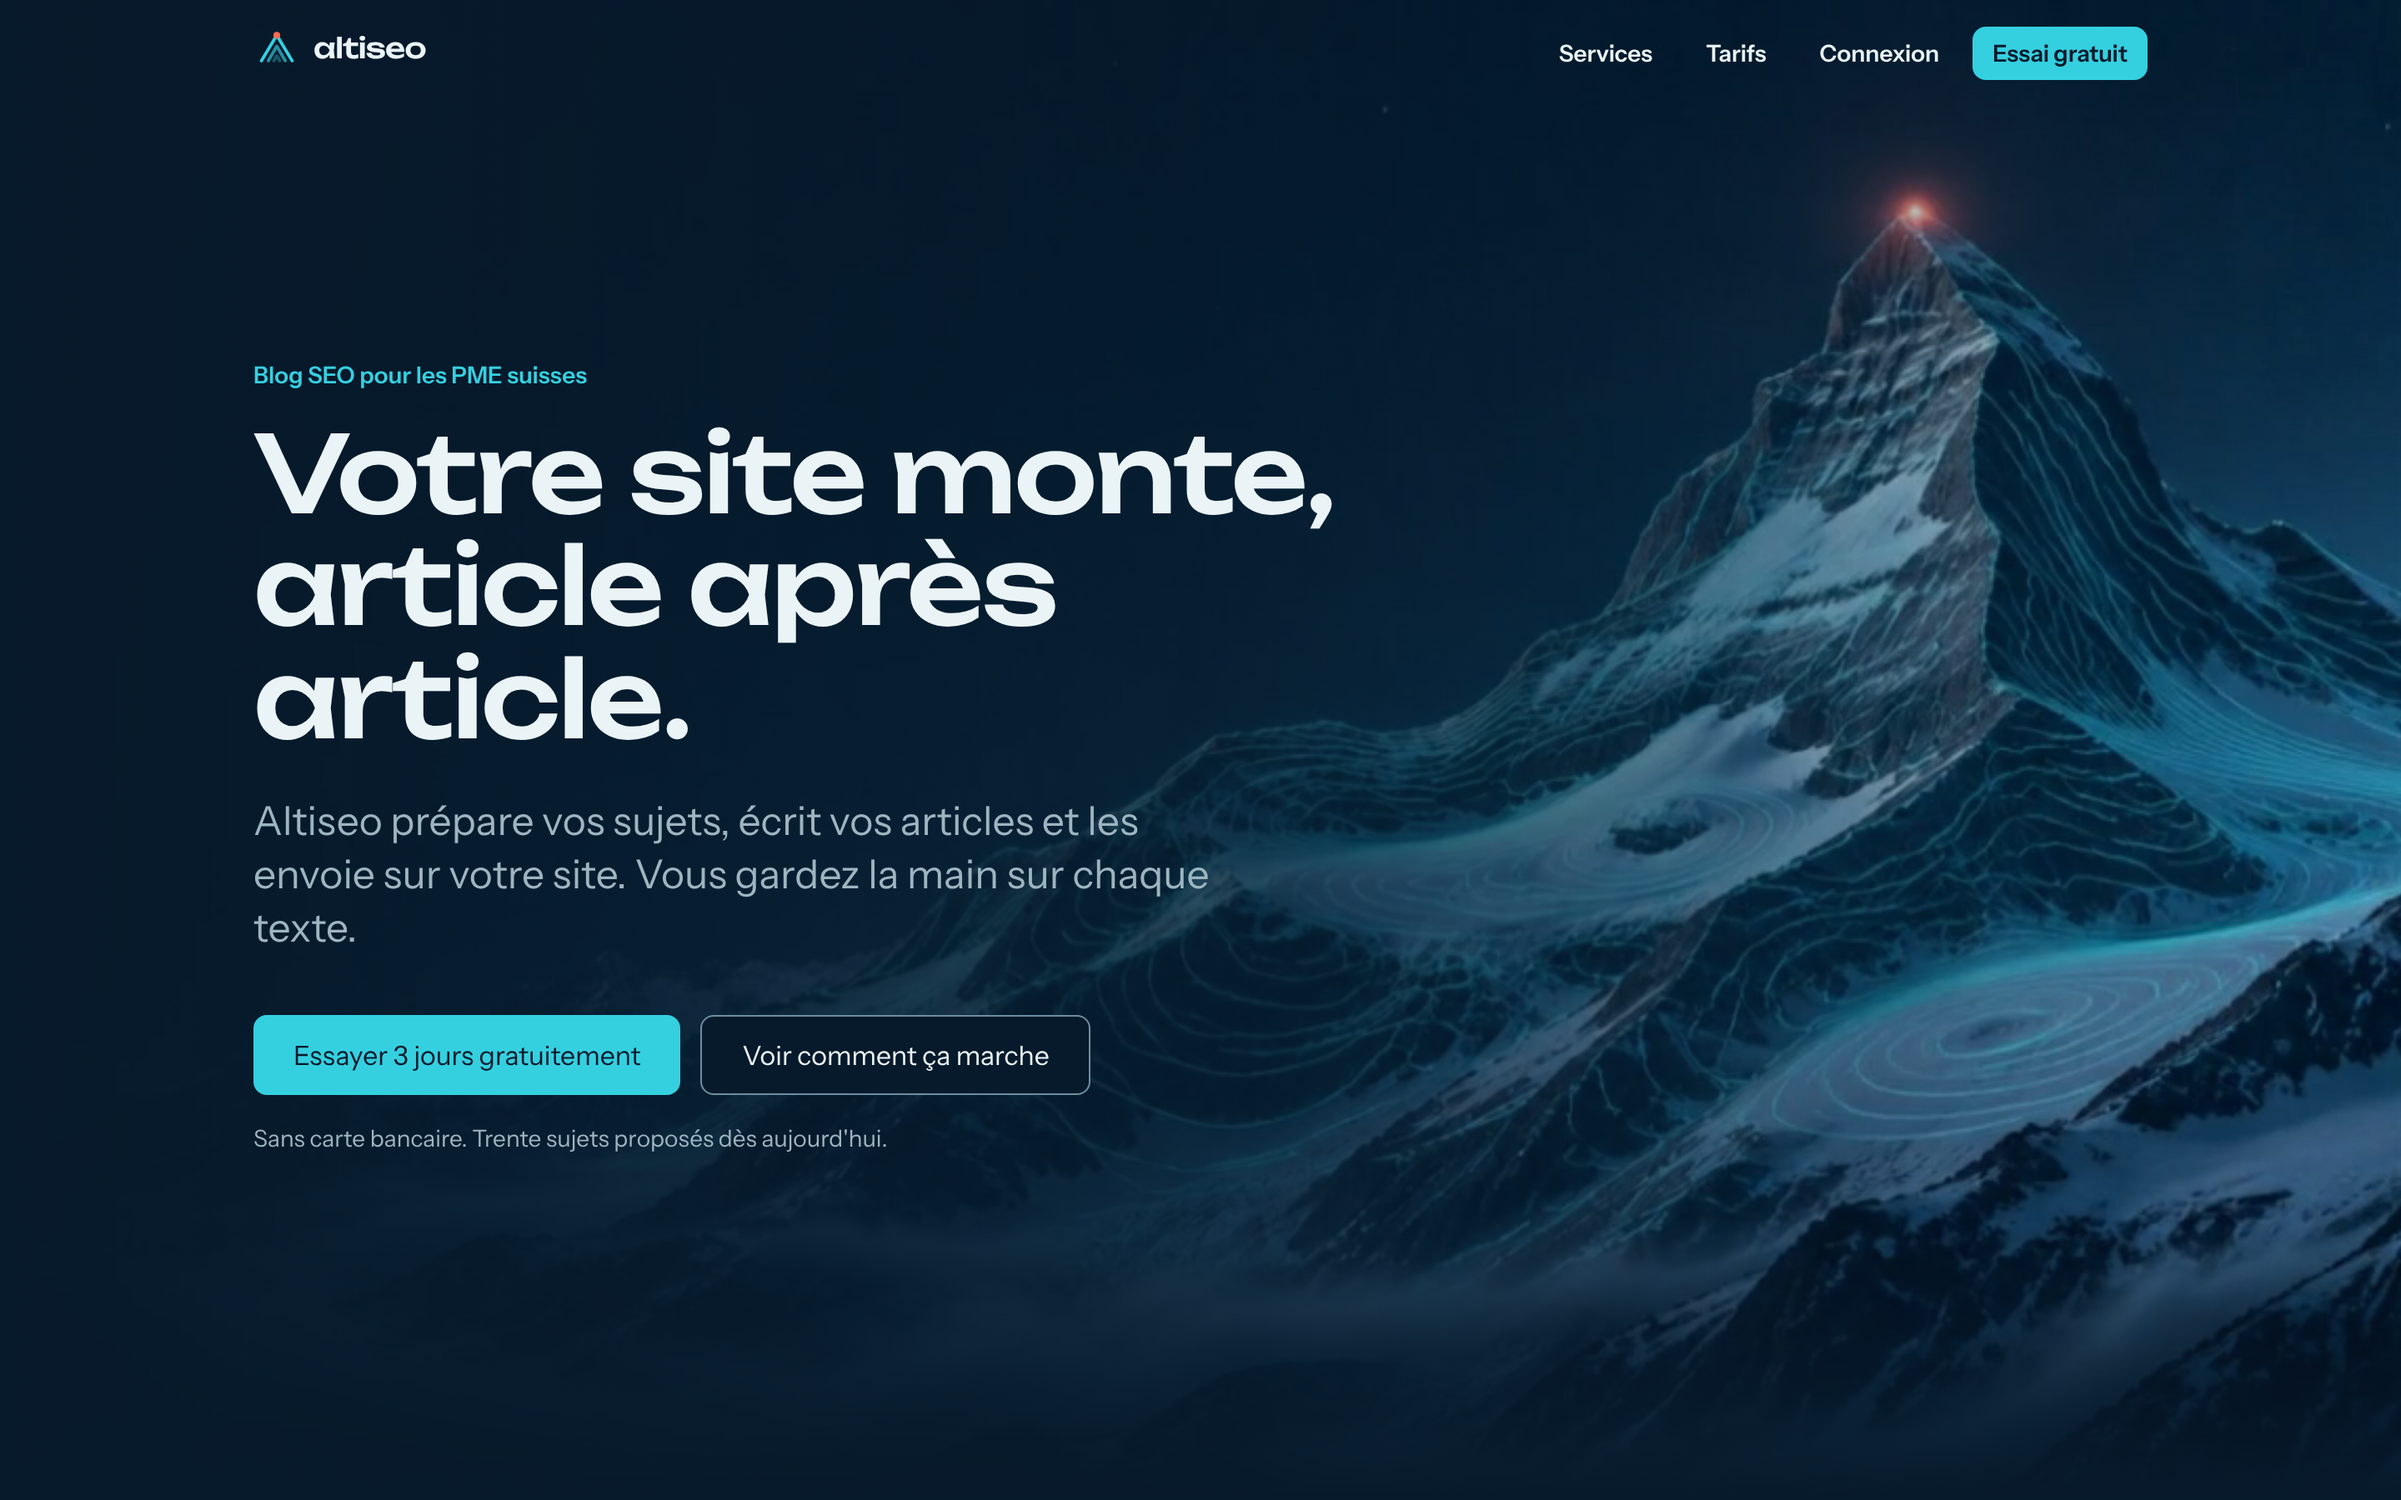
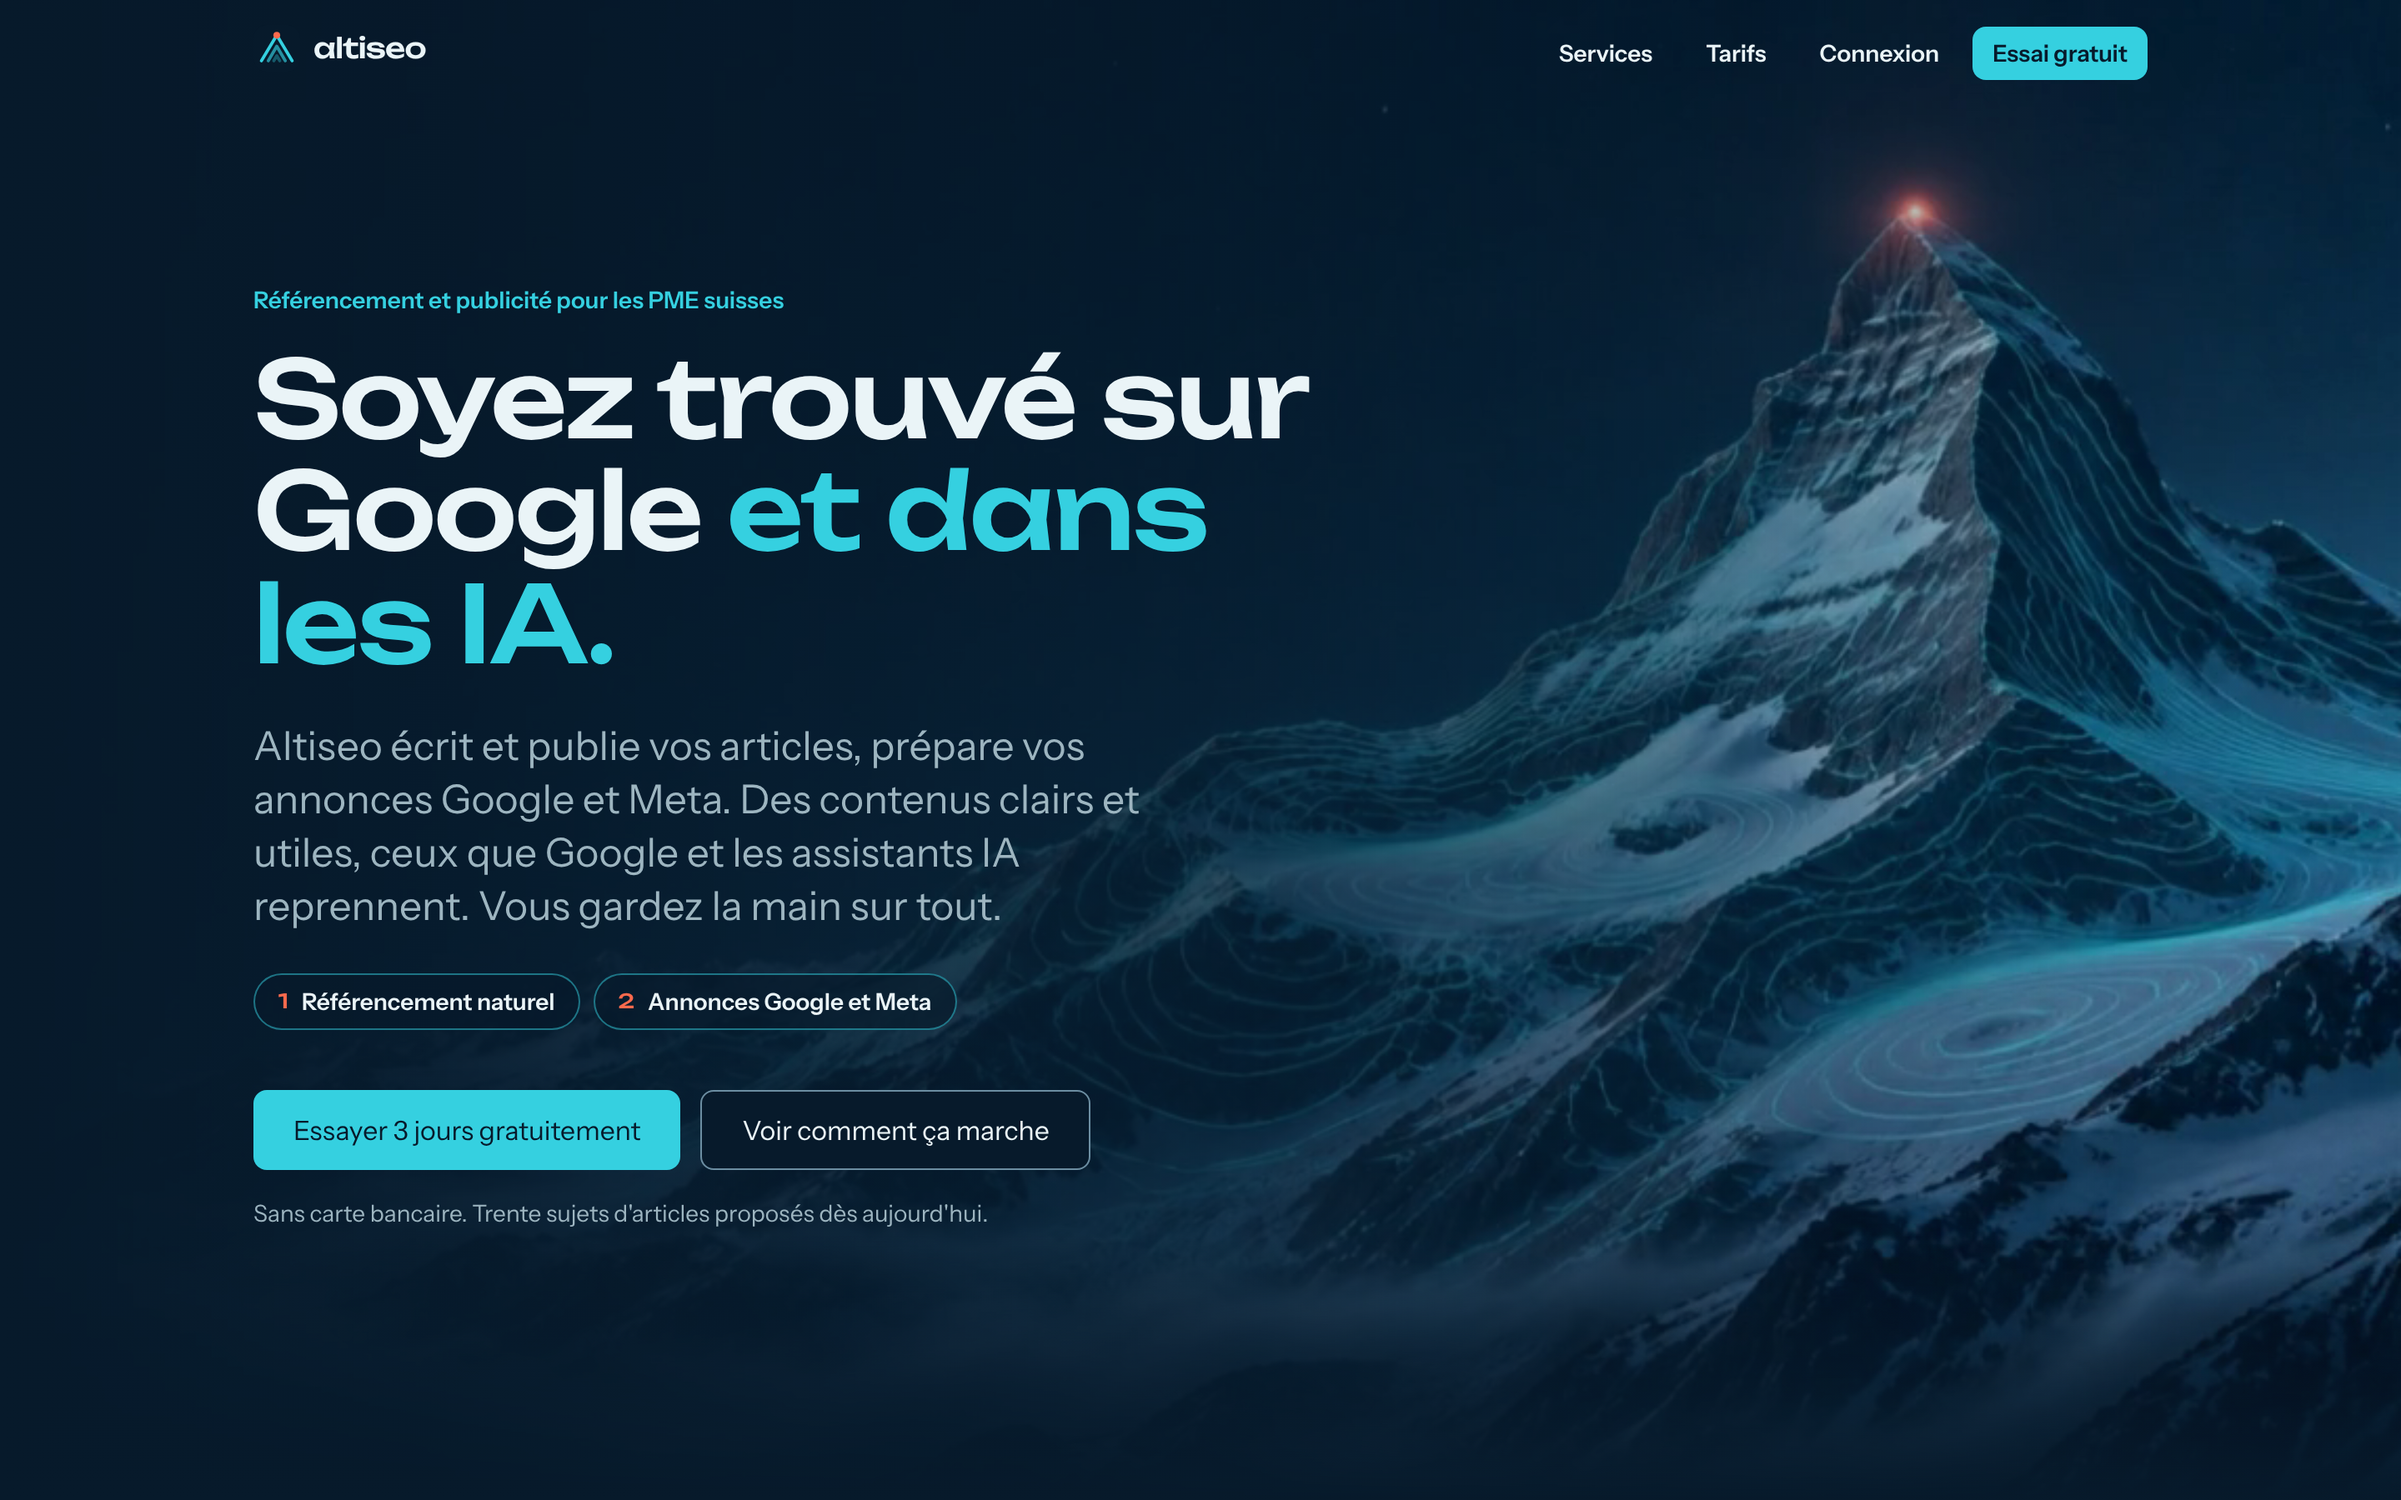
Align the homepage headline with the shared-link message
The hero now opens on being found on Google and in AI assistants, as
the share preview promises, with numbered pillars underneath. The
sentence and the pillars name only what is connected on the server;
the former headline moves to the benefits section.

Claude-Session: https://claude.ai/code/session_011RBLGKB5dKpvgzhoEGGa65

Changed region(s): [[0.0938, 0.1867, 0.5625, 0.6222], [0.0938, 0.6533, 0.4375, 0.8089]]

diff --git a/src/app/page.tsx b/src/app/page.tsx
@@ -48,6 +48,11 @@ function Word({ text }: { text: string }) {
 export default function Home() {
   // Le titre de la section des fonctions suit ce qui est réellement branché (src/lib/readiness.ts).
   const measures = readyFeatures().some((g) => g.group === "Mesurer");
+  // L'accroche reprend le message des liens partagés, mais n'annonce que ce qui est branché sur ce serveur.
+  const ads = isReady("ads"), ai = isReady("aiVisibility");
+  const pillars = ["Référencement naturel", ...(ads ? ["Annonces Google et Meta"] : []), ...(ai ? ["Visibilité dans ChatGPT"] : [])];
+  const does = ["écrit et publie vos articles", ...(ads ? ["prépare vos annonces Google et Meta"] : []), ...(ai ? ["suit ce que les IA disent de vous"] : [])];
+  const promise = `Altiseo ${does.length > 1 ? `${does.slice(0, -1).join(", ")} et ${does.at(-1)}` : does[0]}. Des contenus clairs et utiles, ceux que Google et les assistants IA reprennent. Vous gardez la main sur tout.`;
   return (
     <div data-theme="dark" className="bg-bg text-text">
       <RevealScope>
@@ -59,14 +64,19 @@ export default function Home() {
           <div className="relative"><PublicHeader /></div>
           <div className="scene is-in relative mx-auto flex w-full max-w-content flex-1 items-center px-4 pb-24 pt-10 md:px-8">
             <div className="max-w-2xl">
-              <p className="text-sm font-semibold text-accent">Blog SEO pour les PME suisses</p>
-              <h1 className="mt-4 text-[38px] leading-[1.05] md:text-[64px]">Votre site monte, article après article.</h1>
-              <p className="mt-6 max-w-xl text-lg !font-normal leading-relaxed text-text-muted md:text-xl">Altiseo prépare vos sujets, écrit vos articles et les envoie sur votre site. Vous gardez la main sur chaque texte.</p>
+              <p className="text-sm font-semibold text-accent">Référencement et publicité pour les PME suisses</p>
+              <h1 className="mt-4 text-[38px] leading-[1.05] md:text-[64px]">Soyez trouvé sur Google <span className="text-accent">et dans les IA.</span></h1>
+              <p className="mt-6 max-w-xl text-lg !font-normal leading-relaxed text-text-muted md:text-xl">{promise}</p>
+              <ul aria-label="Ce qu'Altiseo fait pour vous" className="mt-6 flex flex-wrap gap-2">
+                {pillars.map((t, i) => (
+                  <li key={t} className="flex items-center gap-2 rounded-pill border border-accent/50 bg-bg/70 px-3.5 py-1.5 text-sm font-semibold"><span aria-hidden="true" className="font-display text-xs font-medium text-highlight">{i + 1}</span>{t}</li>
+                ))}
+              </ul>
               <div className="mt-9 flex flex-wrap gap-3">
                 <Link href="/inscription" className={buttonClass("primary", "lg")}>Essayer 3 jours gratuitement</Link>
                 <Link href="/services" className={buttonClass("secondary", "lg")}>Voir comment ça marche</Link>
               </div>
-              <p className="mt-4 text-sm text-text-muted">Sans carte bancaire. Trente sujets proposés dès aujourd'hui.</p>
+              <p className="mt-4 text-sm text-text-muted">Sans carte bancaire. Trente sujets d'articles proposés dès aujourd'hui.</p>
             </div>
           </div>
         </section>
@@ -74,7 +84,7 @@ export default function Home() {
         {/* Bénéfices */}
         <section aria-labelledby="h-benefits" className="scene mx-auto max-w-content px-4 py-24 md:px-8">
           <div>
-            <h2 id="h-benefits" className="max-w-2xl font-display text-2xl font-medium leading-tight tracking-tight md:text-[40px] md:leading-[1.12]"><Word text="Un blog qui avance, même quand vous n'avez pas le temps" /></h2>
+            <h2 id="h-benefits" className="max-w-2xl font-display text-2xl font-medium leading-tight tracking-tight md:text-[40px] md:leading-[1.12]"><Word text="Votre site monte, article après article" /></h2>
             <ul className="mt-12 grid gap-5 md:grid-cols-3">
               {BENEFITS.map(({ Icon, title, text }) => (
                 <li key={title} className="rounded-xl border border-border bg-surface p-6">
